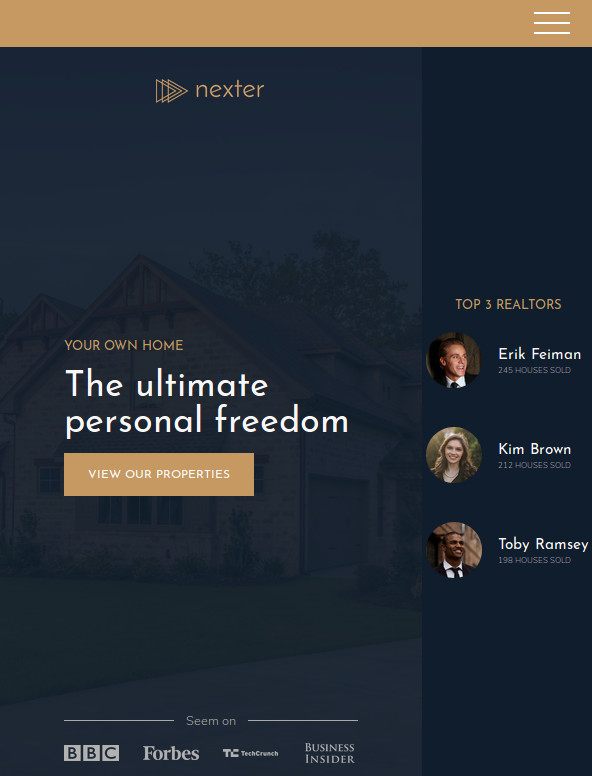
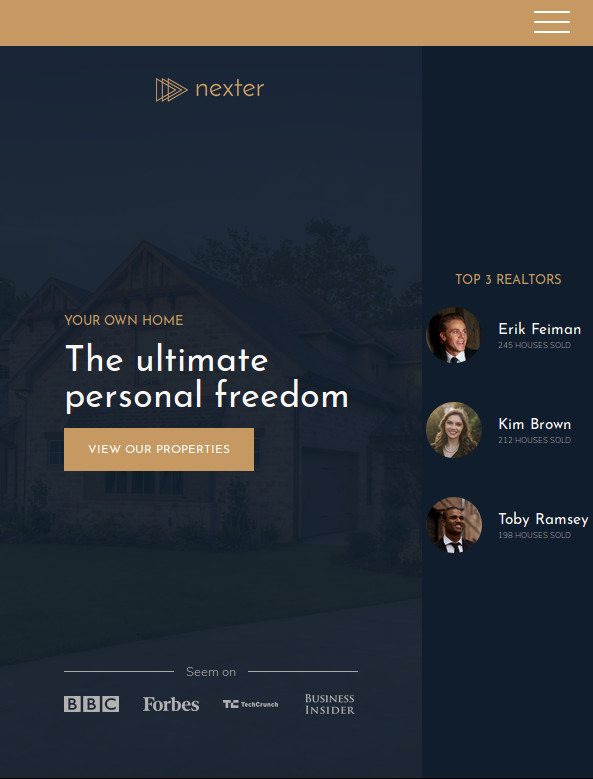
When browse the wieport window the next section is immediately right under visible viewport. Because of the 6rem height of the sidebar our header continued under the visible viewport a while in spite of the fact that was set to ocupy 100% of the viewport height in previous setup.

diff --git a/sass/_base.scss b/sass/_base.scss
@@ -68,6 +68,6 @@ body {
   }
   
   @media only screen and (max-width: $bp-medium) {
-    grid-template-rows: 6rem 100vh min-content min-content 40vw repeat(3, min-content); 
+    grid-template-rows: 6rem calc(100vh - 6rem) min-content min-content 40vw repeat(3, min-content); 
   }
 }
